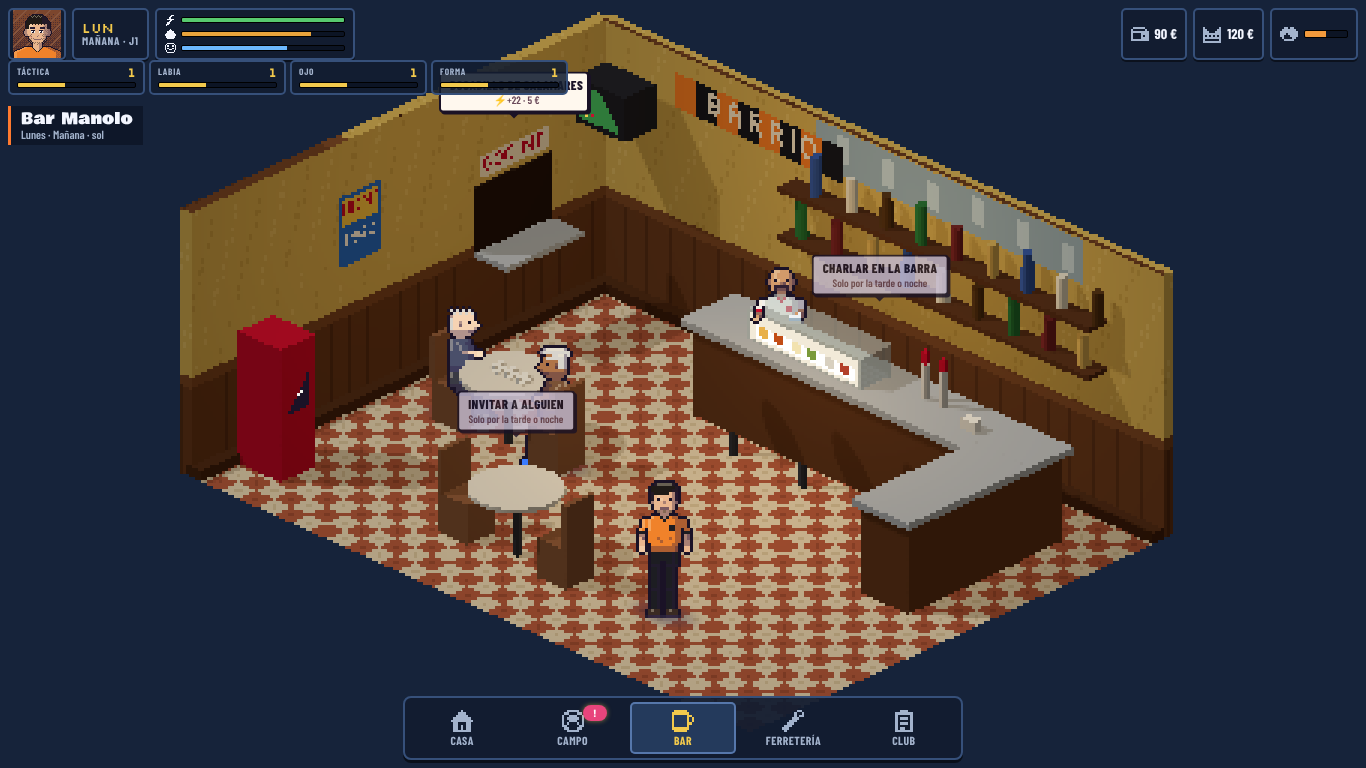
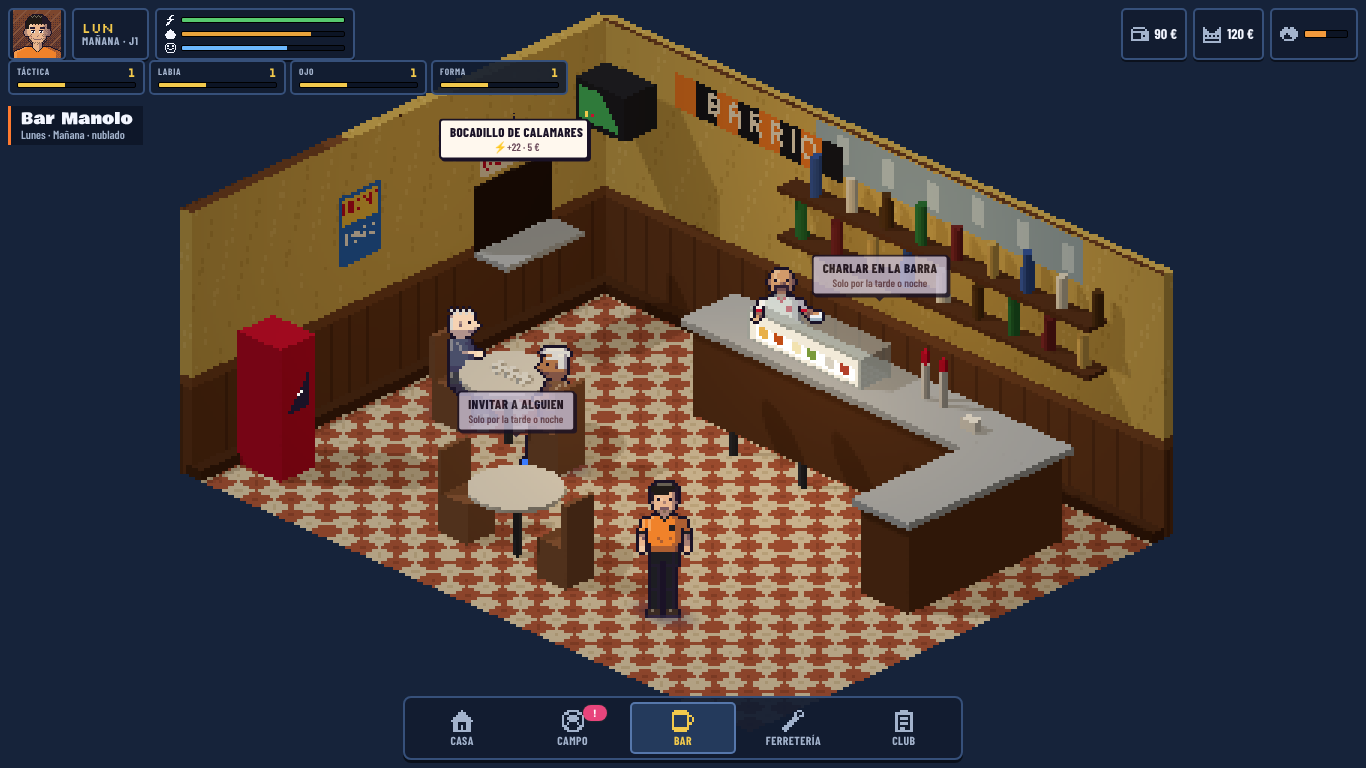
Mobile: hotspot labels never overlap
- Label placement tries each label's own spot first, then the nearest
  free gaps around it. It avoids other labels, the top bar, the place
  tag, the match button and the dock.
- A displaced label loses its tip and gets a dashed line to its object.
- Order: story labels first, then usable actions, then blocked ones.
  The result is the same every frame, so labels do not jitter.
- Compact labels on phones (narrow portrait or short landscape): short
  action names (Estudiar, Bocadillo, Turno...), smaller type, and long
  sub-lines are trimmed.
- In portrait, interiors may crop their empty corners slightly to gain
  one integer pixel step, so rooms look bigger.

Claude-Session: https://claude.ai/code/session_01WRVFSKMmoDi4jX7VEKtsmJ

Changed region(s): [[0.3075, 0.0938, 0.4305, 0.2188], [0.5842, 0.4062, 0.6149, 0.4375], [0.0615, 0.1562, 0.0922, 0.1875]]

diff --git a/game/src/main.ts b/game/src/main.ts
@@ -62,6 +62,8 @@ function resize() {
   const hh = Math.max(1, Math.round(r.height));
   world.resize(w, hh);
   match?.resize(w, hh);
+  // al girar el móvil o estrechar la ventana, las etiquetas pasan a compactas (o al revés)
+  if (career && $('hotspots').classList.contains('compact') !== compactLabels()) renderHotspots();
 }
 new ResizeObserver(resize).observe(stage);
 
@@ -105,6 +107,11 @@ const VIEWS: Record<LocationId, () => Location> = {
 };
 let loc: Location | null = null;
 const hotspotEls = new Map<string, HTMLButtonElement>();
+/** Líneas que unen cada etiqueta apartada con su objeto. */
+const SVG = 'http://www.w3.org/2000/svg';
+const labelLines = document.createElementNS(SVG, 'svg');
+labelLines.setAttribute('class', 'hotspot-lines');
+const stemEls = new Map<string, SVGLineElement>();
 
 function enterWorld(where: LocationId) {
   if (!career) return;
@@ -304,6 +311,9 @@ interface HotspotUse {
   sub: string;
   state: 'on' | 'off' | 'story';
 }
+/** Móvil (estrecho en vertical o bajo en horizontal): etiquetas compactas y con el nombre corto. */
+const compactLabels = () => stage.clientWidth < 600 || stage.clientHeight < 500;
+
 function hotspotInfo(id: string): HotspotUse {
   const c = career!;
   const scene = hotspotScene(c, c.location, id);
@@ -317,13 +327,16 @@ function hotspotInfo(id: string): HotspotUse {
   const a = acts[0];
   const why = blocked(c, a);
   const cost = [a.energy > 0 ? `⚡${a.energy}` : a.energy < 0 ? `⚡+${-a.energy}` : '', a.wallet ? `${a.wallet} €` : '', a.trains ? `${STATS[a.trains].label}+` : ''].filter(Boolean).join(' · ');
-  return { label: a.label, sub: why ?? cost, state: why ? 'off' : 'on' };
+  return { label: (compactLabels() && a.short) || a.label, sub: why ?? cost, state: why ? 'off' : 'on' };
 }
 
 function renderHotspots() {
   const host = $('hotspots');
-  host.replaceChildren();
+  labelLines.replaceChildren();
+  host.replaceChildren(labelLines);
   hotspotEls.clear();
+  stemEls.clear();
+  host.classList.toggle('compact', compactLabels());
   if (!loc) return;
   for (const hs of loc.hotspots) {
     const info = hotspotInfo(hs.id);
@@ -495,31 +508,84 @@ async function finishMatch(o: MatchOutcome) {
   await playAuto();
 }
 
-/** Coloca las etiquetas sobre sus objetos; si dos se pisan, la de abajo baja hasta dejar de pisarla. */
+interface Box {
+  x0: number;
+  y0: number;
+  x1: number;
+  y1: number;
+}
+const overlap = (a: Box, b: Box) => Math.max(0, Math.min(a.x1, b.x1) - Math.max(a.x0, b.x0)) * Math.max(0, Math.min(a.y1, b.y1) - Math.max(a.y0, b.y0));
+
+/**
+ * Coloca las etiquetas sobre sus objetos sin que se pisen entre ellas ni con la barra de arriba, el
+ * cartel del sitio, el botón del partido o el dock. Cada una prueba primero su sitio (justo encima
+ * del objeto) y, si choca, los huecos de alrededor, de más cerca a más lejos; si acaba apartada, una
+ * línea la une con su objeto. Primero se colocan las de historia, luego las que se pueden usar y al
+ * final las que no. Mismo resultado cada fotograma: no bailan.
+ */
 function placeLabels(l: Location) {
-  const placed: { x: number; y: number; w: number; h: number }[] = [];
+  const W = stage.clientWidth;
+  const H = stage.clientHeight;
+  const sr = stage.getBoundingClientRect();
+  const blocks: Box[] = [];
+  for (const id of ['hud', 'hudStats', 'hudTime', 'placeTag', 'btnMatch', 'dock']) {
+    const e = document.getElementById(id);
+    if (!e || e.hidden || !e.offsetParent) continue;
+    const r = e.getBoundingClientRect();
+    if (r.width && r.height) blocks.push({ x0: r.left - sr.left - 3, y0: r.top - sr.top - 3, x1: r.right - sr.left + 3, y1: r.bottom - sr.top + 3 });
+  }
+  const rank = (el: HTMLElement) => ({ story: 0, on: 1, off: 2 })[el.dataset.state as 'story' | 'on' | 'off'] ?? 1;
   const items = l.hotspots
-    .map((hs) => ({ el: hotspotEls.get(hs.id), p: l.project(hs.anchor) }))
-    .filter((i): i is { el: HTMLButtonElement; p: { x: number; y: number; visible: boolean } } => !!i.el)
-    .sort((a, b) => a.p.y - b.p.y);
-  for (const { el, p } of items) {
+    .map((hs) => ({ id: hs.id, el: hotspotEls.get(hs.id), p: l.project(hs.anchor) }))
+    .filter((i): i is { id: string; el: HTMLButtonElement; p: { x: number; y: number; visible: boolean } } => !!i.el)
+    .sort((a, b) => rank(a.el) - rank(b.el) || a.p.y - b.p.y);
+  const placed: Box[] = [];
+  const tip = 8; // el piquito de debajo de la etiqueta
+  for (const { id, el, p } of items) {
     el.hidden = !p.visible;
     const w = el.offsetWidth;
-    const hh = el.offsetHeight + 6;
-    let y = p.y;
-    for (let k = 0; k < 8; k++) {
-      // la etiqueta ocupa [y - alto, y]
-      const hit = placed.find((r) => Math.abs(r.x - p.x) < (r.w + w) / 2 + 2 && y - hh < r.y && y > r.y - r.h);
+    const h = el.offsetHeight;
+    // la etiqueta pegada a su objeto (dentro de la pantalla)
+    const ax = Math.max(w / 2 + 4, Math.min(W - w / 2 - 4, p.x));
+    const ay = Math.max(h + 4, Math.min(H - tip - 4, p.y));
+    let best = { x: ax, y: ay, cost: Infinity };
+    const sy = h + 6;
+    const sx = w / 2 + 6;
+    const cands: [number, number][] = [];
+    for (const dy of [0, -1, 1, -2, 2, -3, 3, -4, 4]) for (const dx of [0, -1, 1, -2, 2]) cands.push([dx * sx, dy * sy]);
+    // de más cerca a más lejos (moverse en vertical se nota menos que en horizontal)
+    cands.sort((a, b) => Math.hypot(a[0] * 1.3, a[1]) - Math.hypot(b[0] * 1.3, b[1]));
+    for (const [dx, dy] of cands) {
+      const x = ax + dx;
+      const y = ay + dy;
+      const box = { x0: x - w / 2 - 2, y0: y - h - 2, x1: x + w / 2 + 2, y1: y + 2 };
+      if (box.x0 < 2 || box.x1 > W - 2 || box.y0 < 2 || box.y1 > H - 2) continue;
+      let hit = 0;
+      for (const r of placed) hit += overlap(box, r);
+      for (const r of blocks) hit += overlap(box, r);
+      const cost = hit * 50 + Math.hypot(dx, dy);
+      if (cost < best.cost) best = { x, y, cost };
       if (!hit) break;
-      y = hit.y + hh;
     }
-    placed.push({ x: p.x, y, w, h: hh });
-    // que no se salga de la pantalla
-    const W = stage.clientWidth;
-    const H = stage.clientHeight;
-    const x = Math.max(w / 2 + 4, Math.min(W - w / 2 - 4, p.x));
-    y = Math.max(hh + 60, Math.min(H - 110, y));
-    el.style.transform = `translate(${x.toFixed(0)}px, ${y.toFixed(0)}px)`;
+    placed.push({ x0: best.x - w / 2 - 2, y0: best.y - h - 2, x1: best.x + w / 2 + 2, y1: best.y + tip });
+    el.style.transform = `translate(${best.x.toFixed(0)}px, ${best.y.toFixed(0)}px)`;
+    // apartada de su objeto: sin piquito y con una línea hasta él
+    const moved = Math.hypot(best.x - p.x, best.y - p.y) > 10 && p.visible;
+    el.classList.toggle('moved', moved);
+    let line = stemEls.get(id);
+    if (moved) {
+      if (!line) {
+        line = document.createElementNS(SVG, 'line');
+        labelLines.append(line);
+        stemEls.set(id, line);
+      }
+      const below = best.y - h / 2 > p.y;
+      line.setAttribute('x1', best.x.toFixed(0));
+      line.setAttribute('y1', (below ? best.y - h : best.y).toFixed(0));
+      line.setAttribute('x2', p.x.toFixed(0));
+      line.setAttribute('y2', p.y.toFixed(0));
+      line.style.display = el.hidden ? 'none' : '';
+    } else if (line) line.style.display = 'none';
   }
 }
 

diff --git a/game/src/game/actions.ts b/game/src/game/actions.ts
@@ -20,6 +20,8 @@ export interface ActionDef {
   where: LocationId;
   hotspot: string;
   label: string;
+  /** Nombre corto para la etiqueta en pantallas estrechas (móvil). */
+  short?: string;
   hint: string;
   energy: number;
   wallet?: number;
@@ -72,6 +74,7 @@ export const ACTIONS: ActionDef[] = [
     where: 'casa',
     hotspot: 'board',
     label: 'Estudiar táctica',
+    short: 'Estudiar',
     hint: 'Táctica + · la formación entra mejor',
     energy: 15,
     mood: -3,
@@ -91,6 +94,7 @@ export const ACTIONS: ActionDef[] = [
     where: 'casa',
     hotspot: 'laptop',
     label: 'Ver partidos',
+    short: 'Vídeos',
     hint: 'Ojo + · vídeos de la liga',
     energy: 10,
     mood: 2,
@@ -108,6 +112,7 @@ export const ACTIONS: ActionDef[] = [
     where: 'casa',
     hotspot: 'sofa',
     label: 'Descansar',
+    short: 'Descansar',
     hint: 'Recupera energía',
     energy: -35,
     food: 4,
@@ -120,6 +125,7 @@ export const ACTIONS: ActionDef[] = [
     where: 'casa',
     hotspot: 'fridge',
     label: 'Comer en casa',
+    short: 'Comer',
     hint: 'Comida + · no gasta franja',
     energy: -5,
     wallet: 3,
@@ -137,6 +143,7 @@ export const ACTIONS: ActionDef[] = [
     where: 'casa',
     hotspot: 'bed',
     label: 'Dormir',
+    short: 'Dormir',
     hint: 'Termina el día · energía al máximo',
     energy: 0,
     food: 0,
@@ -150,6 +157,7 @@ export const ACTIONS: ActionDef[] = [
     where: 'campo',
     hotspot: 'pitch',
     label: 'Entrenamiento',
+    short: 'Entrenar',
     hint: 'Martes y jueves por la tarde',
     energy: 28,
     mood: 4,
@@ -168,6 +176,7 @@ export const ACTIONS: ActionDef[] = [
     where: 'campo',
     hotspot: 'track',
     label: 'Salir a correr',
+    short: 'Correr',
     hint: 'Forma + · solo por la mañana',
     energy: 22,
     mood: 3,
@@ -184,6 +193,7 @@ export const ACTIONS: ActionDef[] = [
     where: 'campo',
     hotspot: 'fence',
     label: 'Ojear al rival',
+    short: 'Ojear',
     hint: 'Sábado · descubre cómo juega',
     energy: 15,
     mood: 0,
@@ -205,6 +215,7 @@ export const ACTIONS: ActionDef[] = [
     where: 'bar',
     hotspot: 'barra',
     label: 'Charlar en la barra',
+    short: 'Charlar',
     hint: 'Labia + · puede traer aficionados',
     energy: 12,
     food: 2,
@@ -230,6 +241,7 @@ export const ACTIONS: ActionDef[] = [
     where: 'bar',
     hotspot: 'mesa',
     label: 'Invitar a alguien',
+    short: 'Invitar',
     hint: 'Charla a solas · le sube la moral si sale bien',
     energy: 10,
     food: 2,
@@ -258,6 +270,7 @@ export const ACTIONS: ActionDef[] = [
     where: 'bar',
     hotspot: 'cocina',
     label: 'Bocadillo de calamares',
+    short: 'Bocadillo',
     hint: 'Energía + · no gasta franja',
     energy: -22,
     food: -40,
@@ -274,6 +287,7 @@ export const ACTIONS: ActionDef[] = [
     where: 'ferreteria',
     hotspot: 'mostrador',
     label: 'Echar un turno',
+    short: 'Turno',
     hint: 'Cartera + · a Don Ramón le gusta',
     energy: 30,
     food: 14,
@@ -304,6 +318,7 @@ export const ACTIONS: ActionDef[] = [
     where: 'ferreteria',
     hotspot: 'despacho',
     label: 'Hablar con Don Ramón',
+    short: 'Don Ramón',
     hint: 'Una vez por semana · confianza',
     energy: 8,
     mood: -2,

diff --git a/game/src/styles.css b/game/src/styles.css
@@ -626,6 +626,42 @@ canvas.px,
   color: #6b4a5a;
   white-space: nowrap;
 }
+/* móvil: etiquetas compactas (nombre corto y letra más pequeña) */
+.hotspots.compact .hotspot {
+  max-width: 132px;
+  padding: 3px 6px 4px;
+  border-width: 2px;
+}
+.hotspots.compact .hotspot b {
+  font-size: 0.72rem;
+}
+.hotspots.compact .hotspot small {
+  max-width: 118px;
+  overflow: hidden;
+  text-overflow: ellipsis;
+  font-size: 0.62rem;
+}
+.hotspots.compact .hotspot::after {
+  bottom: -6px;
+  border-width: 5px;
+}
+/* apartada de su objeto: sin piquito; la une una línea */
+.hotspot.moved::after {
+  display: none;
+}
+.hotspot-lines {
+  position: absolute;
+  inset: 0;
+  width: 100%;
+  height: 100%;
+  overflow: visible;
+  pointer-events: none;
+}
+.hotspot-lines line {
+  stroke: #1a1226;
+  stroke-width: 2;
+  stroke-dasharray: 3 2;
+}
 .hotspot[data-state='off'] {
   background: #c9c0d6;
   opacity: 0.8;

diff --git a/game/src/render/world/location.ts b/game/src/render/world/location.ts
@@ -593,9 +593,11 @@ export abstract class Location {
   /** Píxeles del dispositivo por píxel de arte que mejor le van a este sitio. */
   pixelScale(cssW: number, cssH: number) {
     if (this.camera instanceof THREE.OrthographicCamera) {
-      // interiores: la escala entera más grande con la que cabe la habitación entera
+      // interiores: la escala entera más grande con la que cabe la habitación entera; en vertical
+      // (móvil) manda el ancho y se deja recortar un poco las puntas vacías para ganar un escalón
       const d = dpr();
-      return Math.max(1, Math.floor(Math.min((cssW * d) / (this.fit.w / ROOM_UPP), (cssH * d) / (this.fit.h / ROOM_UPP))));
+      const slack = cssW < cssH ? 1.09 : 1;
+      return Math.max(1, Math.floor(Math.min(((cssW * d) / (this.fit.w / ROOM_UPP)) * slack, (cssH * d) / (this.fit.h / ROOM_UPP))));
     }
     return defaultScale(cssW, cssH);
   }

diff --git a/docs/diseno/02-el-juego.md b/docs/diseno/02-el-juego.md
@@ -111,6 +111,8 @@ Para añadir una interacción nueva basta con nombrar el mueble y añadir un sit
 - **Una sola barra superior**: día y franja, energía, cartera, caja, confianza; el retrato del míster abre su ficha.
 - **Un solo dock inferior**: los cuatro lugares y *Club*. No hay más menús.
 - **Las acciones viven en el escenario**: etiquetas sobre los objetos 3D (con coste de energía/dinero y si están disponibles). El míster camina hasta el objeto y la acción se resuelve con una tarjeta de resultado.
+  - Las etiquetas nunca se pisan entre ellas ni con la barra, el cartel del sitio o el dock: si su sitio está ocupado buscan el hueco más cercano y una línea discontinua las une a su objeto. Primero se colocan las de historia, luego las que se pueden usar y al final las que no.
+  - En móvil (estrecho en vertical o bajo en horizontal) son compactas, con el nombre corto («Estudiar», «Bocadillo», «Turno»), y en vertical la habitación se ve un escalón más grande (se recortan un poco sus puntas vacías).
 - **Una hoja** que en móvil sube desde abajo y en PC aparece a la derecha (Club, Míster, resultados).
 - **Partido**: marcador arriba; abajo, cuatro botones (órdenes, cambios, velocidad, pausa). En PC, panel lateral fijo con órdenes y plantilla.
 - Guardado automático en el navegador al final de cada acción.
